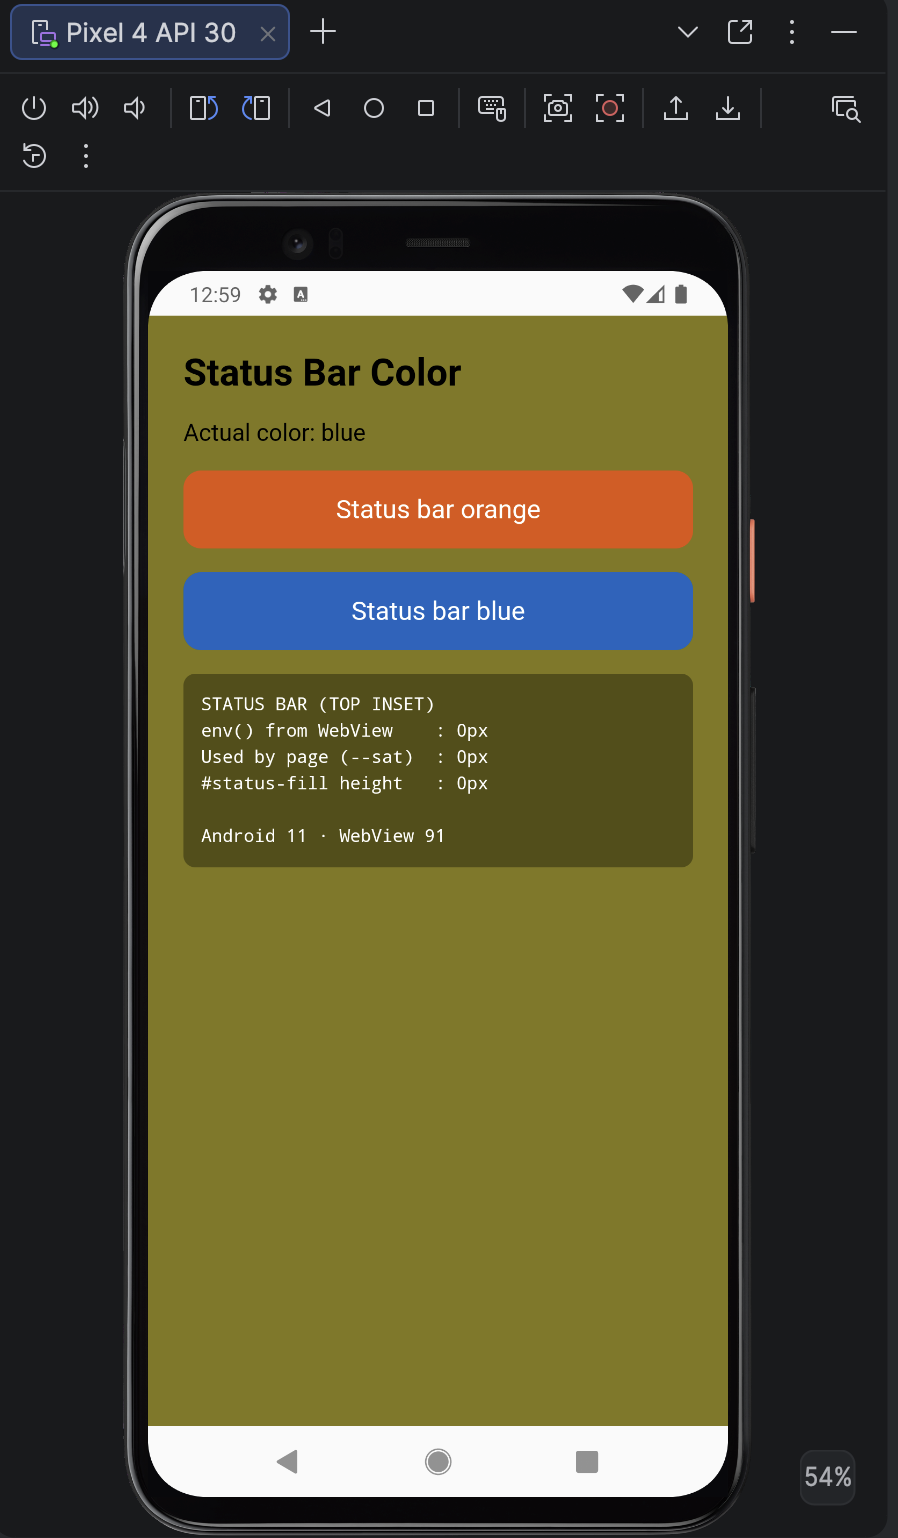
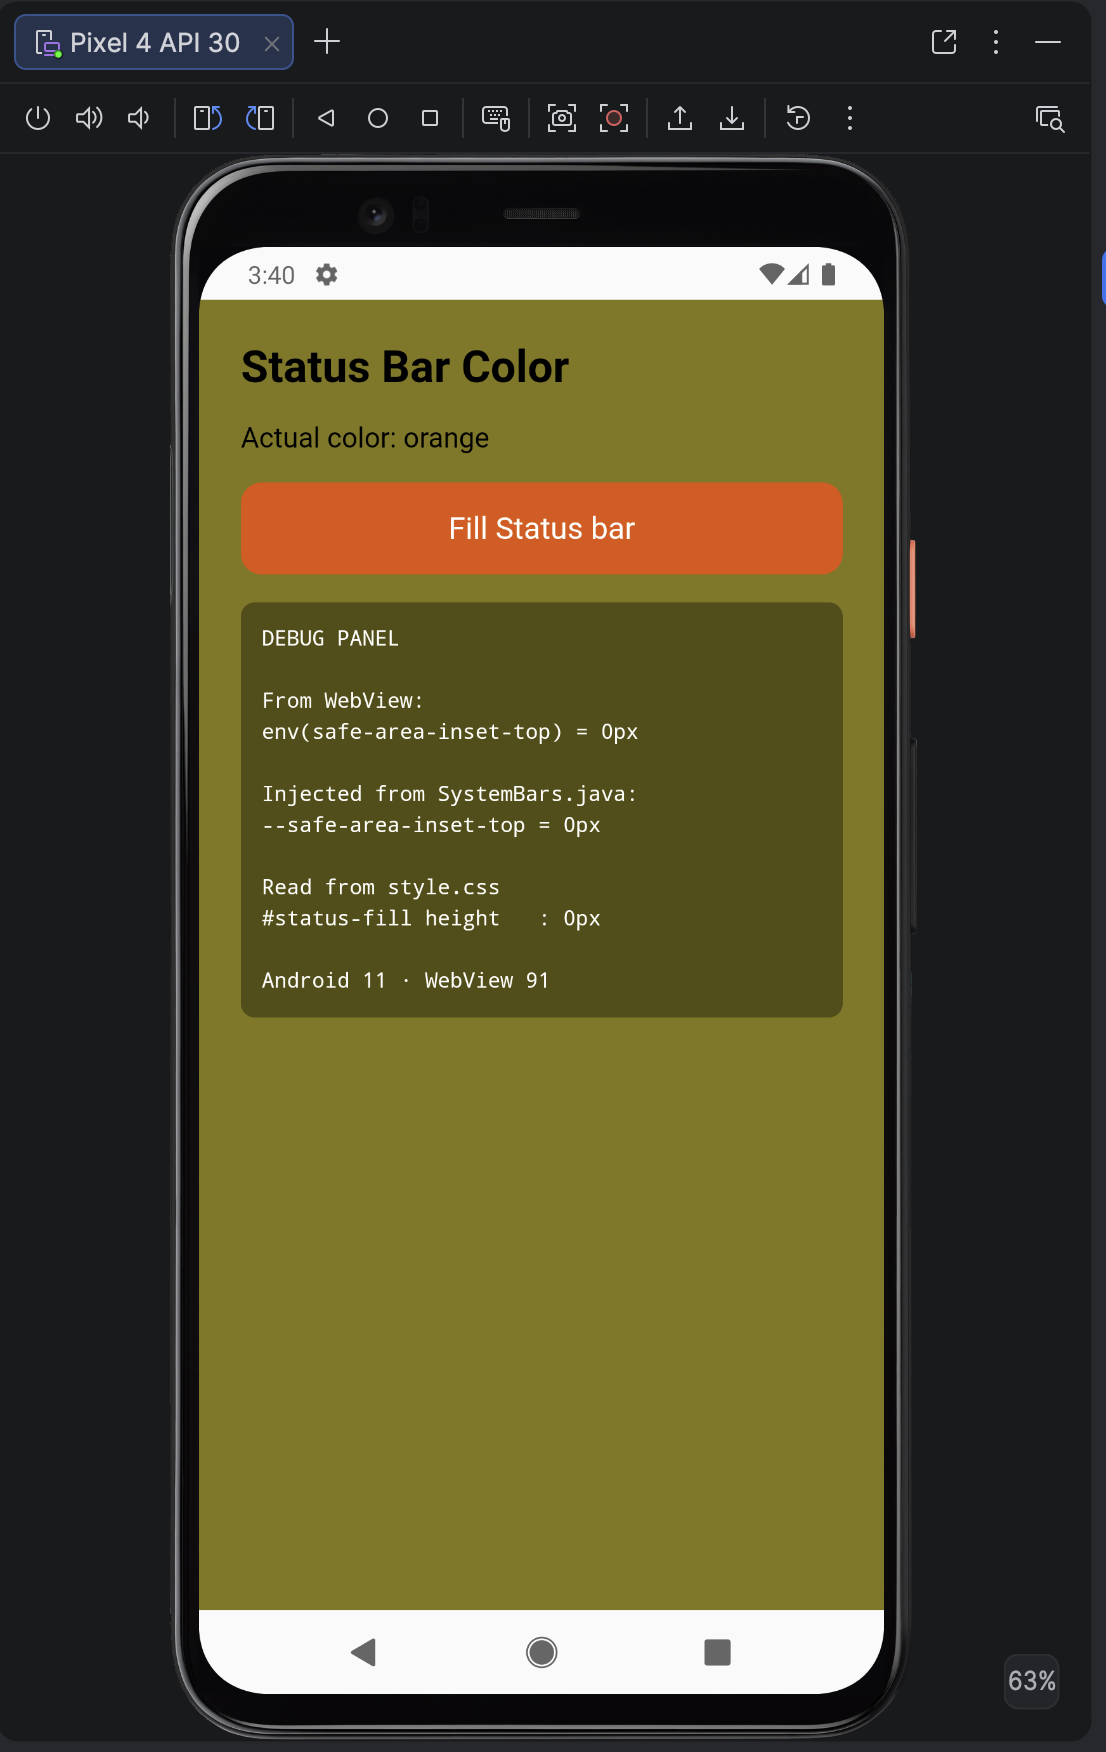
Web page,readme and screenshotsmodified.

diff --git a/dist/index.html b/dist/index.html
@@ -14,7 +14,7 @@
 
 <main>
   <h1> Status Bar Color </h1>
-  <p id="current">Actual color: blue</p>
+  <p id="current">Actual color: none</p>
 
   <button id="btn-orange" class="btn orange">Fill Status bar</button>
   <pre id="debug" class="debug"></pre>

diff --git a/README.md b/README.md
@@ -7,8 +7,9 @@ The page reads the top inset and shows it in a debug panel:
 
 | Source | How the page reads it |
 |---|---|
-| WebView | `env(safe-area-inset-top)` |
-| Used by the page | `--sat: var(--safe-area-inset-top, env(safe-area-inset-top, 0px))`, where `--safe-area-inset-top` is written by `SystemBars.java` (`injectSafeAreaCSS()`) on `<html>` inline style |
+| From WebView | `env(safe-area-inset-top)` |
+| Injected from SystemBars.java | `--safe-area-inset-top` |
+| Read from style.css | `#status-fill.height = var(--sat)`<br>--sat variable is set to `--sat: var(--safe-area-inset-top, env(safe-area-inset-top, 0px))` |
 
 A fixed `#status-fill` element (height = `--sat`) is painted behind the status bar, so a wrong inset is visible on screen.
 
@@ -19,12 +20,11 @@ A fixed `#status-fill` element (height = `--sat`) is painted behind the status b
 | `@capacitor/core` / `@capacitor/android` / `@capacitor/cli` | **8.5.3** (pinned) |
 | `minSdkVersion` / `compileSdkVersion` / `targetSdkVersion` | 24 / 36 / 36 |
 | `androidx.activity` | 1.11.0 |
-| Edge-to-edge | **enabled** in `MainActivity.onCreate()` with `EdgeToEdge.enable(this)`, called right after `super.onCreate()` (not committed, see below) |
+| Edge-to-edge | enabled |
 | Viewport | `viewport-fit=cover` |
 | SystemBars config | none (defaults: `insetsHandling: "css"`) |
 
-All the results below were collected with this `MainActivity.java`. The change is **not committed** in this
-repository (the committed `MainActivity` is the default empty `BridgeActivity`), so add it before testing:
+`android/app/src/main/java/.../MainActivity.java` (included in this repository):
 
 ```java
 import android.os.Bundle;
@@ -51,8 +51,6 @@ npm install
 npx cap sync android
 ```
 
-Then add `EdgeToEdge.enable(this)` to `android/app/src/main/java/.../MainActivity.java` as shown above.
-
 Run on an emulator/device:
 
 ```bash
@@ -70,15 +68,20 @@ npx cap open android
 
 1. Launch the app.
 2. Read the debug panel right after the page is visible.
-3. Tap **Status bar orange** (`setStyle LIGHT` → dark icons) and **Status bar blue** (`setStyle DARK` → light icons).
-4. Rotate the device and read the panel again.
+3. Tap Fill status bar button to set status bar color
 
 Debug panel legend:
 
 ```
-STATUS BAR (TOP INSET)
-env() from WebView    : value of env(safe-area-inset-top)
-Used by page (--sat)  : value actually used by the page
+DEBUG PANEL
+
+From WebView:
+env(safe-area-inset-top) = value reported by the WebView
+
+Injected from SystemBars.java:
+--safe-area-inset-top = value written by injectSafeAreaCSS() on <html>
+
+Read from style.css
 #status-fill height   : height of the colored rectangle behind the status bar
 
 Android <version> · WebView <major>
@@ -89,19 +92,13 @@ Useful while testing:
 - **Web console:** `chrome://inspect` in Chrome on the Mac → *inspect* under the app WebView.
 - **Native logs:** Logcat in Android Studio, filter `SystemBars` / `Capacitor/Console`.
 
-## Expected behavior
-
-- `Used by page (--sat)` equals the status bar height (CSS px) on every Android version.
-- `#status-fill` covers exactly the status bar area: no gap and no overlap with the page content.
-- `setStyle` switches the status bar icons between dark (orange) and light (blue).
-
 ## Tested on
 
-| Android | API | Device / emulator | WebView | `--sat` | env() | `#status-fill` | Result |
+| Android | API | Device / emulator | WebView | `--safe-area-inset-top` | `env(safe-area-inset-top)` | `#status-fill height` | Result |
 |---|---|---|---|---|---|---|---|
 | 10 | 29 | Medium Phone (emulator) | 91 | 0px | 0px | 0px | ❌ Not edge-to-edge, no inset exposed |
 | 11 | 30 | Pixel 4 (emulator) | 91 | 0px | 0px | 0px | ❌ Same as Android 10 |
-| 12 | 31 | Emulator (punch-hole camera) | 91 | 0px | 0px | 0px | ❌ Same as Android 10 |
+| 12 | 31 | Pixel 9 Pro (emulator) | 91 | 0px | 0px | 0px | ❌ Same as Android 10 |
 | 12L | 32 | Pixel 4 (emulator) | 120 | 0px | 0px | 0px | ❌ Same as Android 10 |
 | 13 | 33 | ZTE Blade A34 | 154 | 33px | 33px | 33px | ✅ Correct |
 | 14 | 34 | Medium Phone (emulator) | 151 | 24px | 24px | 24px | ✅ Correct |
@@ -117,7 +114,8 @@ Useful while testing:
 
 - The page is **not** drawn edge-to-edge, even though `EdgeToEdge.enable(this)` is called in `MainActivity`:
   the WebView content is laid out **between** the status bar and the navigation bar, and both bars have a white background.
-- The page receives no top inset at all: `env(safe-area-inset-top)` = `0px`, `--sat` = `0px`, `#status-fill` height = `0px`.
+- After tapping **Fill Status bar**, the area behind the status bar stays white: `#status-fill` has no height.
+- Debug panel: `env(safe-area-inset-top) = 0px`, `--safe-area-inset-top = 0px`, `#status-fill height : 0px`.
 
 Related code in `SystemBars.java` (8.5.3): with WebView < 140 (`WEBVIEW_VERSION_WITH_SAFE_AREA_FIX`),
 `shouldPassthroughInsets` is `false`, so `initWindowInsetsListener()` applies the system bar insets as padding on the
@@ -127,55 +125,79 @@ decor view (`v.setPadding(left, top, right, bottom)`) and passes zeroed insets t
 
 ![Android 11](screenshots/api30.png)
 
-Same behavior as Android 10: the page is laid out between the status bar and the navigation bar (white backgrounds),
-and `env(safe-area-inset-top)`, `--sat` and `#status-fill` height are all `0px`.
+Same behavior as Android 10:
 
-### Android 12 (API 31) – emulator with punch-hole camera, WebView 91
+- The page is laid out **between** the status bar and the navigation bar, and both bars have a white background.
+- After tapping **Fill Status bar**, the area behind the status bar stays white: `#status-fill` has no height.
+- Debug panel: `env(safe-area-inset-top) = 0px`, `--safe-area-inset-top = 0px`, `#status-fill height : 0px`.
+
+### Android 12 (API 31) – Pixel 9 Pro emulator, WebView 91
 
 ![Android 12](screenshots/api31.png)
 
-Same behavior as Android 10: the page is laid out between the status bar and the navigation bar (white backgrounds),
-and `env(safe-area-inset-top)`, `--sat` and `#status-fill` height are all `0px`.
-On this device the punch-hole camera extends below the status bar and overlaps the top edge of the page content.
+Same behavior as Android 10:
+
+- The page is laid out **between** the status bar and the navigation bar, and both bars have a white background.
+- After tapping **Fill Status bar**, the area behind the status bar stays white: `#status-fill` has no height.
+- Debug panel: `env(safe-area-inset-top) = 0px`, `--safe-area-inset-top = 0px`, `#status-fill height : 0px`.
+- The punch-hole camera extends below the status bar and overlaps the top edge of the page content.
 
 ### Android 12L (API 32) – Pixel 4 emulator, WebView 120
 
 ![Android 12L](screenshots/api32.png)
 
-Same behavior as Android 10 (WebView 120 is still below 140): the page is laid out between the status bar and the
-gesture navigation bar (white backgrounds), and `env(safe-area-inset-top)`, `--sat` and `#status-fill` height are all `0px`.
-After tapping **Status bar orange** the area behind the status bar stays white, because `#status-fill` has `0px` height.
-The user agent reports `Android 12` on this API level.
+Same behavior as Android 10 (WebView 120 is still below 140):
+
+- The page is laid out **between** the status bar and the gesture navigation bar, and both bars have a white background.
+- After tapping **Fill Status bar**, the area behind the status bar stays white: `#status-fill` has no height.
+- Debug panel: `env(safe-area-inset-top) = 0px`, `--safe-area-inset-top = 0px`, `#status-fill height : 0px`.
+- The user agent reports `Android 12` on this API level.
 
 ### Android 13 (API 33) – ZTE Blade A34, WebView 154
 
 ![Android 13](screenshots/api33.png)
 
-Correct: the page is drawn edge-to-edge, `#status-fill` covers exactly the status bar (orange after tapping
-**Status bar orange**) and `env(safe-area-inset-top)`, `--sat` and `#status-fill` height are all `33px`.
+Correct:
+
+- The page is drawn edge-to-edge, also behind the navigation bar.
+- After tapping **Fill Status bar**, `#status-fill` covers exactly the status bar area (orange).
+- Debug panel: `env(safe-area-inset-top) = 33px`, `--safe-area-inset-top = 33px`, `#status-fill height : 33px`.
 
 ### Android 14 (API 34) – Medium Phone emulator, WebView 151
 
 ![Android 14](screenshots/api34.png)
 
-Correct: same as Android 13, with all three values at `24px`.
+Correct:
+
+- The page is drawn edge-to-edge, also behind the navigation bar.
+- After tapping **Fill Status bar**, `#status-fill` covers exactly the status bar area (orange).
+- Debug panel: `env(safe-area-inset-top) = 24px`, `--safe-area-inset-top = 24px`, `#status-fill height : 24px`.
 
 ### Android 15 (API 35) – Pixel 9 emulator, WebView 154
 
 ![Android 15](screenshots/api35.png)
 
-Correct: the page is drawn edge-to-edge and `#status-fill` covers the status bar, including the punch-hole camera area.
+Correct:
 
-`env(safe-area-inset-top)` is `55px` while `--sat` (injected `--safe-area-inset-top`) is `54px`. In `injectSafeAreaCSS()`
-the inset is converted to CSS px and then cast with `(int) topPx`, which truncates the decimal part, while the WebView
-value is not truncated the same way.
+- The page is drawn edge-to-edge, also behind the gesture navigation bar.
+- After tapping **Fill Status bar**, `#status-fill` covers the status bar area (orange), including the punch-hole camera area.
+- Debug panel: `env(safe-area-inset-top) = 55px`, `--safe-area-inset-top = 54px`, `#status-fill height : 54px`.
+
+`env(safe-area-inset-top)` and `--safe-area-inset-top` differ by 1px. In `injectSafeAreaCSS()` the inset is converted
+to CSS px and then cast with `(int) topPx`, which truncates the decimal part, while the WebView value is not truncated
+the same way.
 
 ### Android 16 (API 36.1) – Samsung SM-A165F, WebView 153
 
 ![Android 16](screenshots/api36.png)
 
-Correct: the page is drawn edge-to-edge and `#status-fill` covers the status bar.
-Same 1px difference as Android 15: `env(safe-area-inset-top)` is `36px`, `--sat` is `35px` (truncated by `(int) topPx`).
+Correct:
+
+- The page is drawn edge-to-edge, also behind the navigation bar.
+- After tapping **Fill Status bar**, `#status-fill` covers the status bar area (orange).
+- Debug panel: `env(safe-area-inset-top) = 36px`, `--safe-area-inset-top = 35px`, `#status-fill height : 35px`.
+
+Same 1px difference as Android 15 (truncated by `(int) topPx` in `injectSafeAreaCSS()`).
 
 ### Android 17 (API 37.2) – Pixel 9 emulator, WebView 153
 
@@ -183,4 +205,4 @@ Same 1px difference as Android 15: `env(safe-area-inset-top)` is `36px`, `--sat`
 
 Correct: same as Android 15 on the same device profile. The page is drawn edge-to-edge, `#status-fill` covers the
 status bar including the punch-hole camera area, with the same 1px difference: `env(safe-area-inset-top)` is `55px`,
-`--sat` is `54px`.
+`--safe-area-inset-top` is `54px`.
